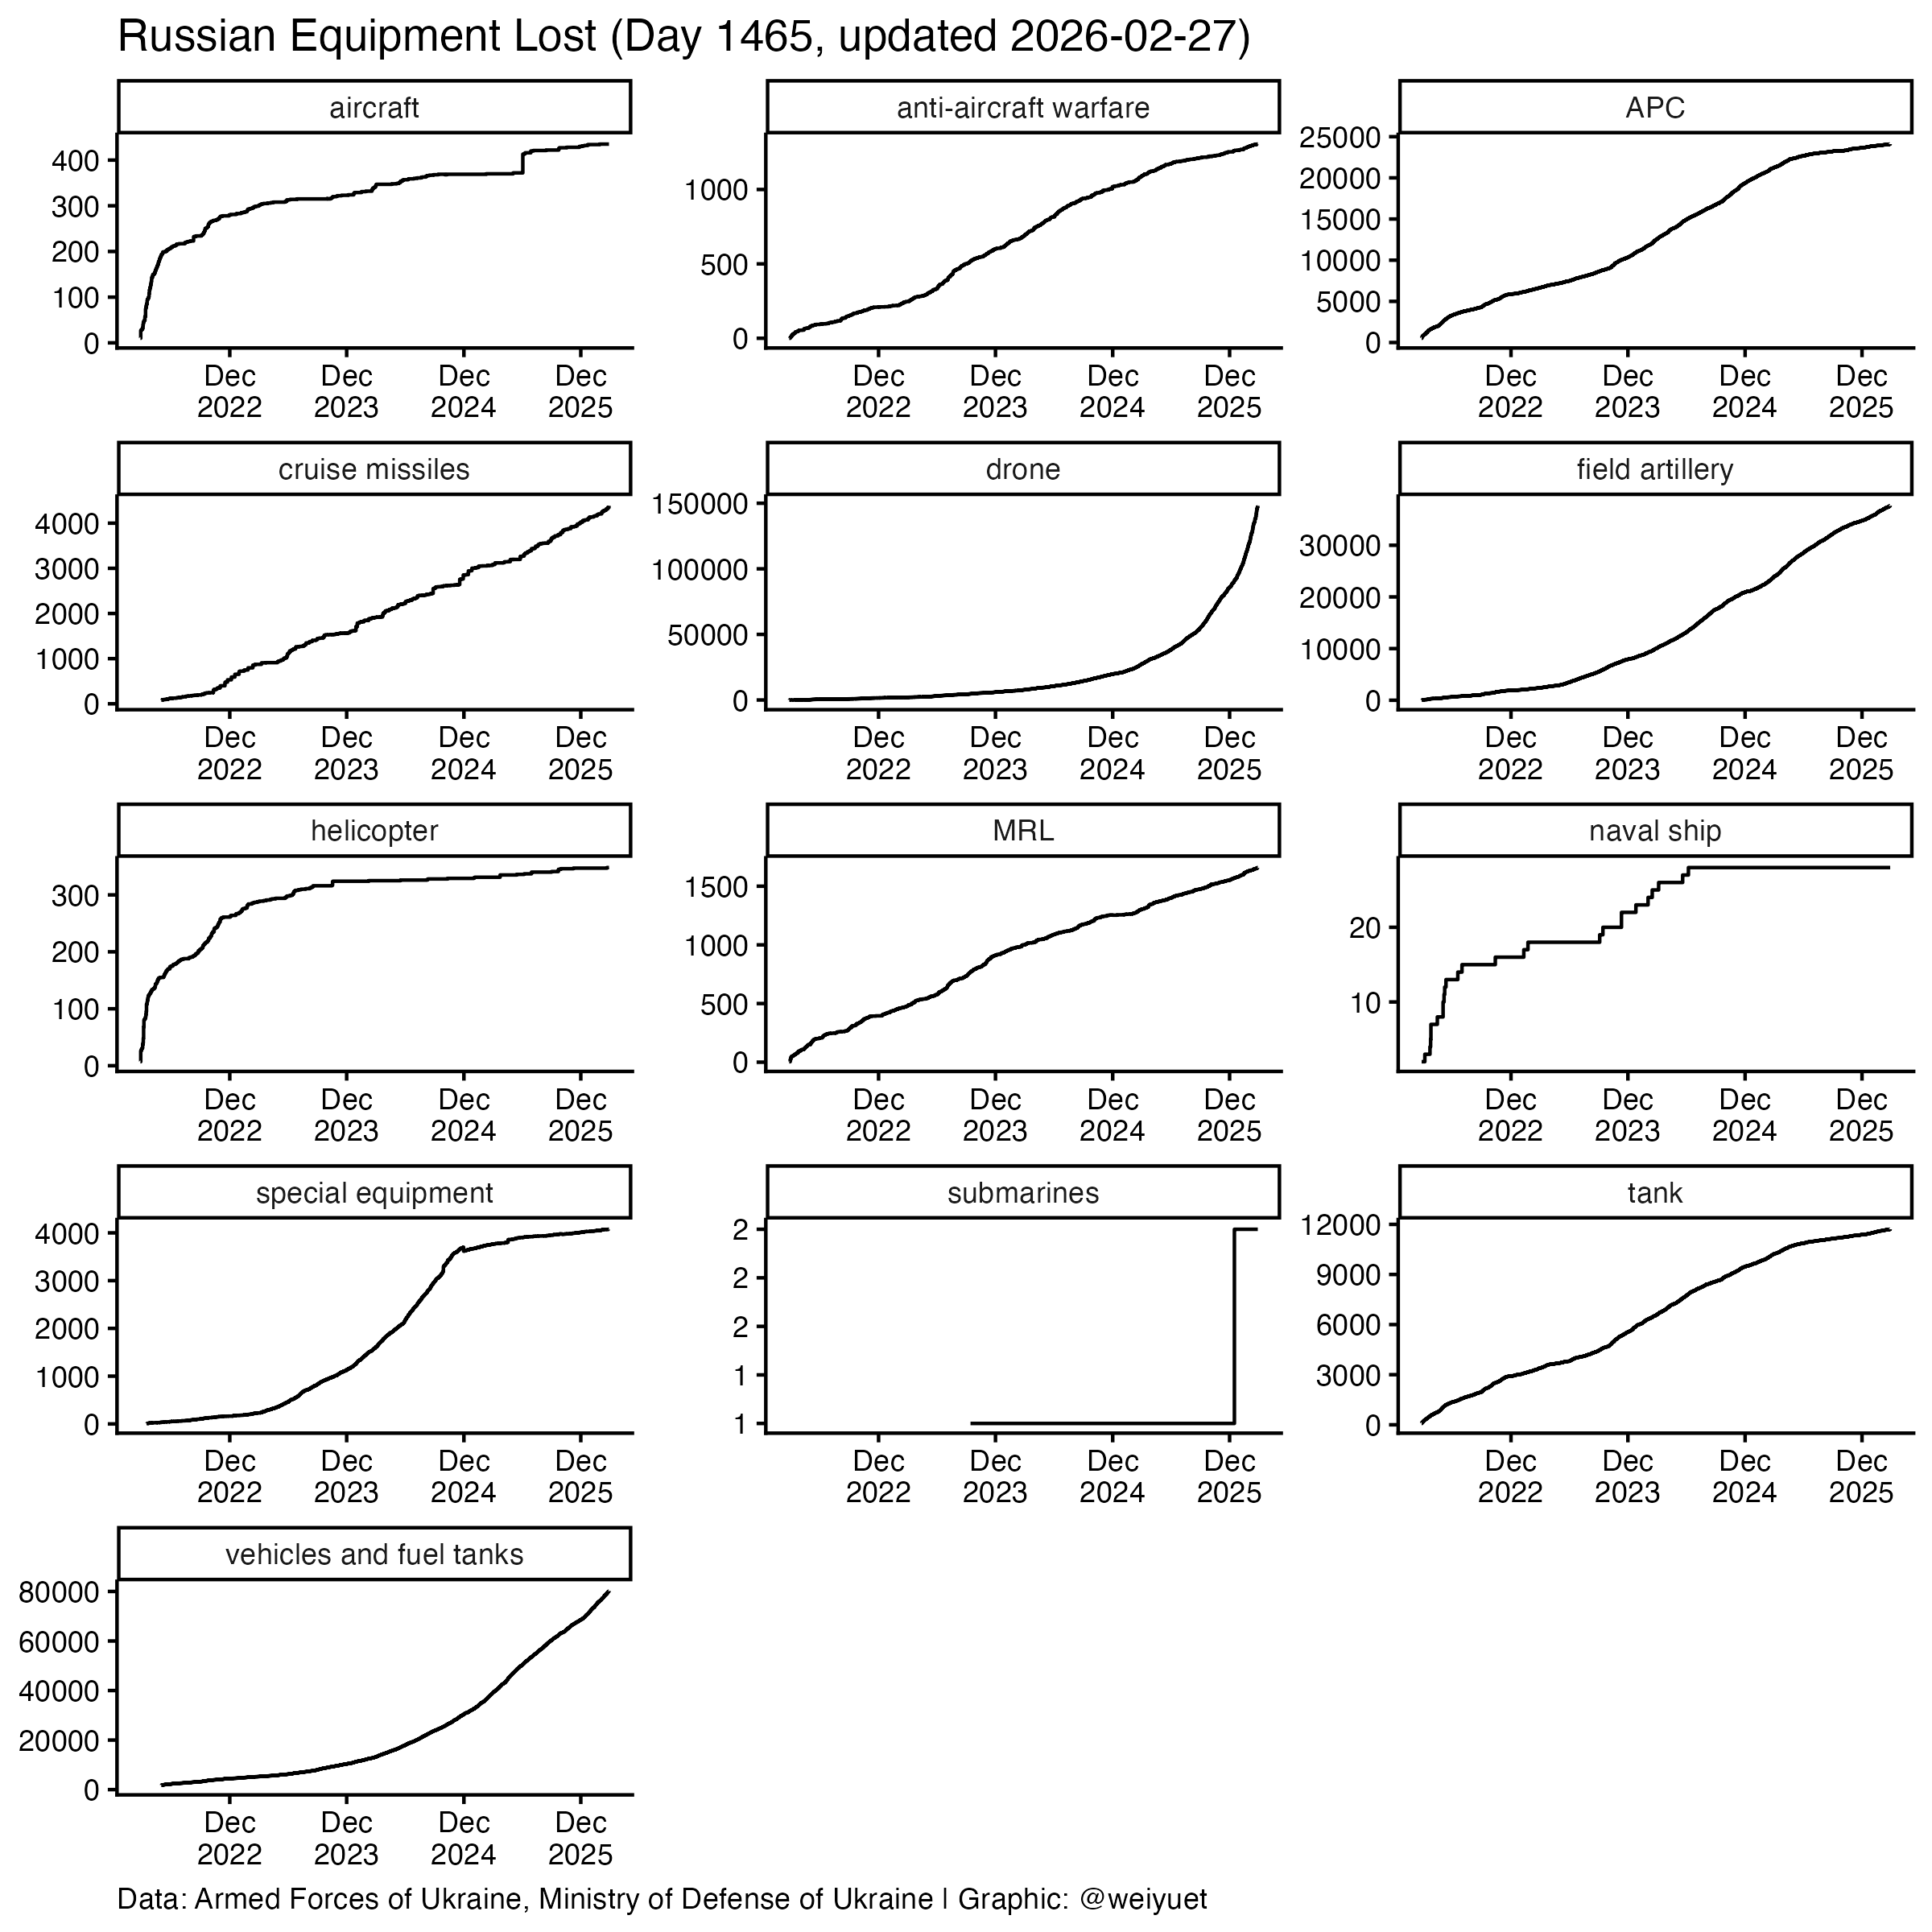
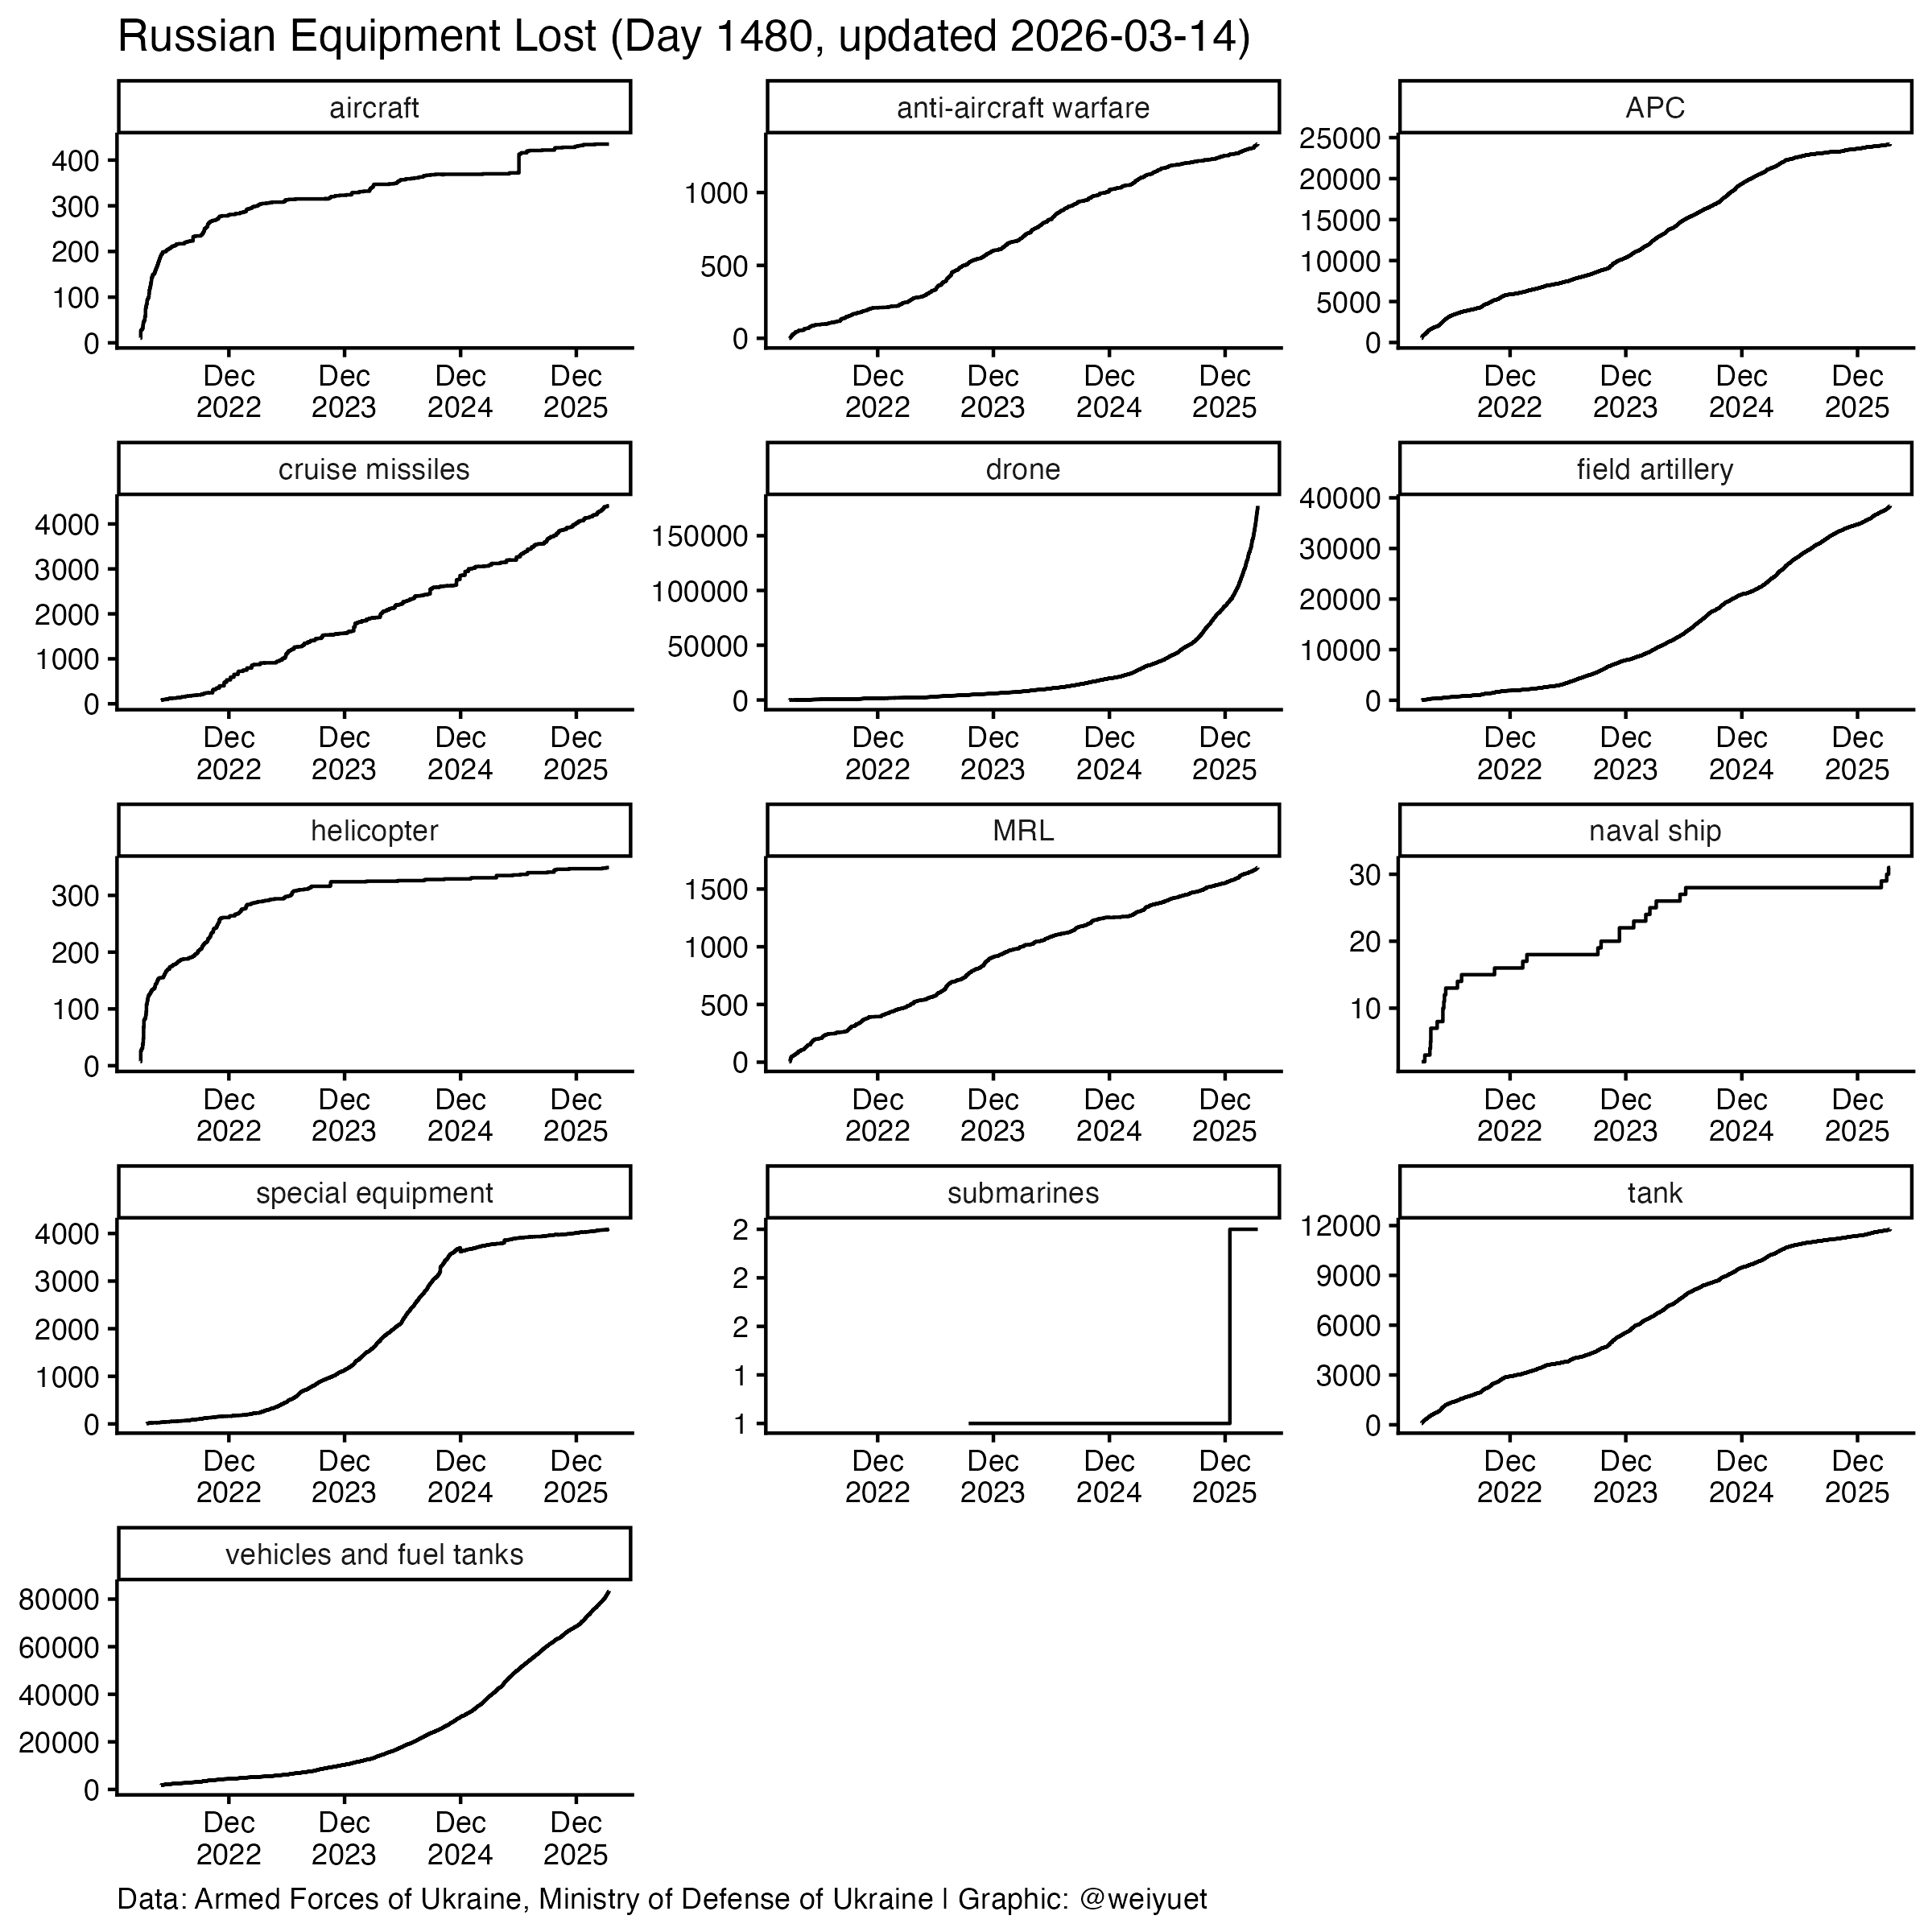
Updated 14 March

diff --git a/README.md b/README.md
@@ -2,7 +2,7 @@
 
 Created: 2022-05-26
 
-Updated: 2026-02-13
+Updated: 2026-03-14
 
   - First Inspired by [`Lena Sokol's Kaggle`](https://www.kaggle.com/code/sokolheavy/2022-ukraine-russia-war-visualization).
 